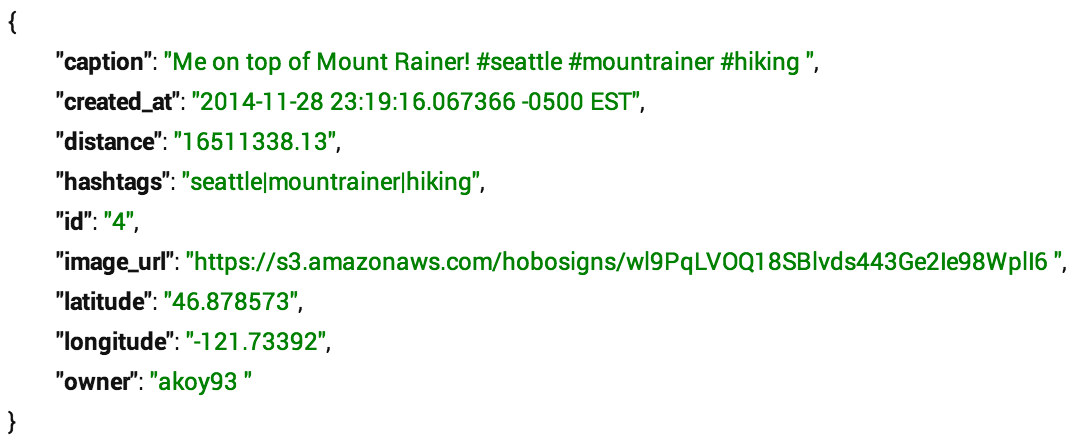
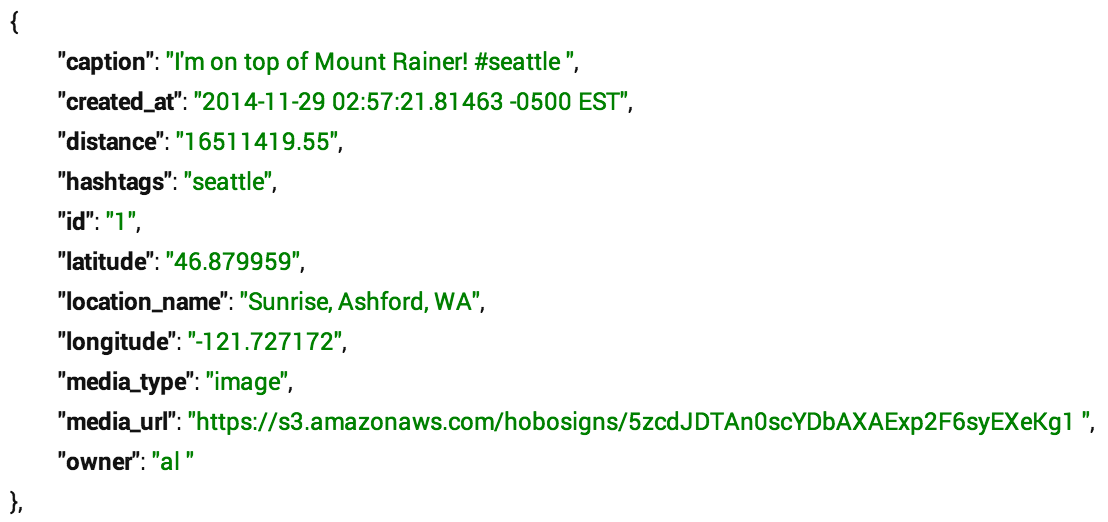
updated readme

diff --git a/README.md b/README.md
@@ -14,9 +14,11 @@ When using any part of the API I wrote, you'll get a JSON object as a response. 
 	- distance: the distance in meters from the provide latitude/longitude
 	- hashtags: a pipe-separated list of hashtags associated with the post (e.g. "hashtag1|tag2|tag3")
 	- id: the unique post id (integer)
-	- image_url: a url pointing to the image associated with the post content
+	- media_url: a url pointing to the media associated with the post content
+	- media_type: the type of media associated with the post
 	- latitude: the latitude of the post location
 	- longitude: the longitude of the post location
+	- location_name: the reverse geocoded location of the post
 	- owner: the username of the person who made the post
 
 **Sample Post JSON Object:**
